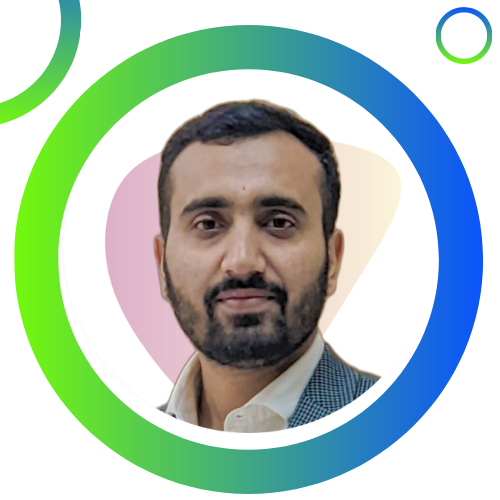
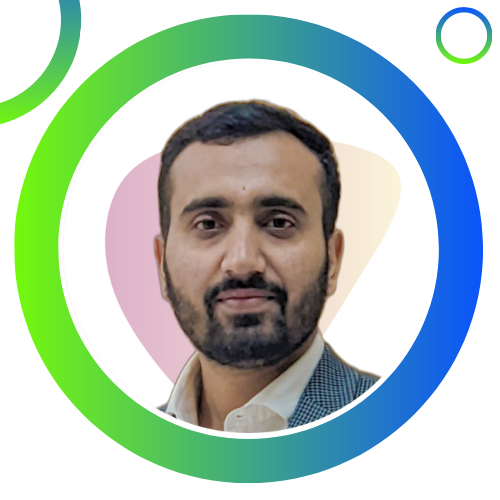
update cv

diff --git a/_pages/about.md b/_pages/about.md
@@ -7,7 +7,7 @@ subtitle: <a href='https://www.soco-engineers.de/'>SOCO ENGINEERS</a>. Taunusstr
 profile:
   align: right
   image: profile_pic.png
-  image_circular: true # crops the image to make it circular
+  image_circular: false # crops the image to make it circular
   more_info: >
     <p>555 your office number</p>
     <p>Sector H-13</p>
